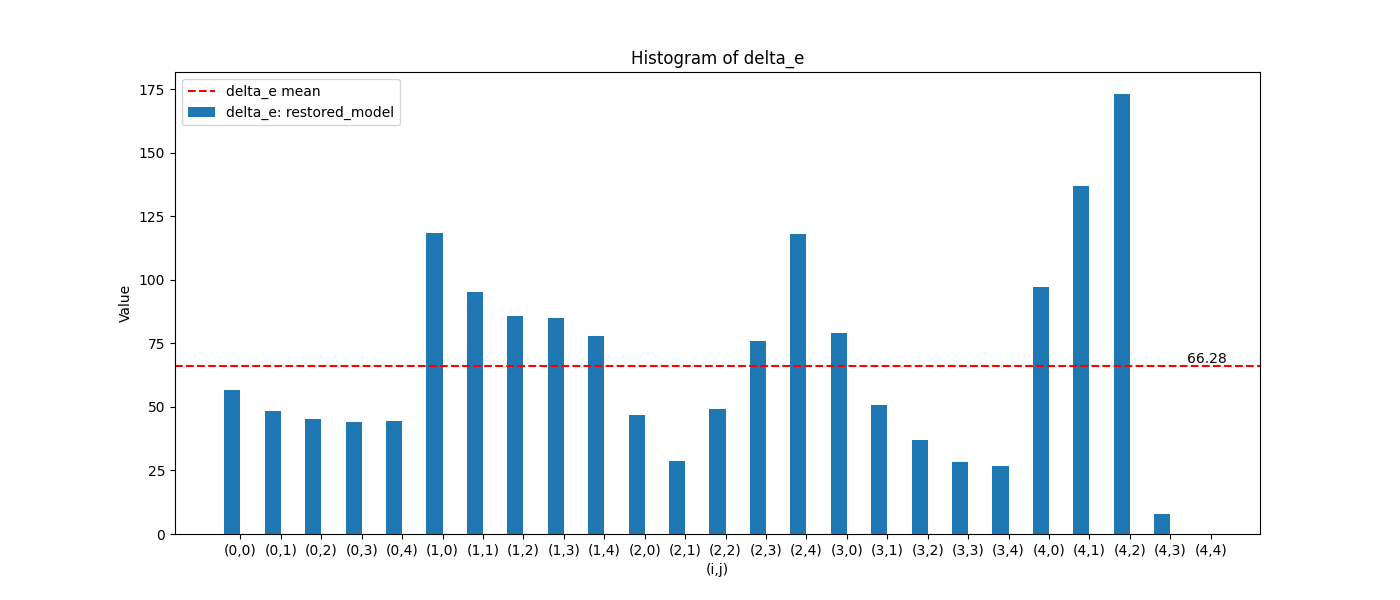
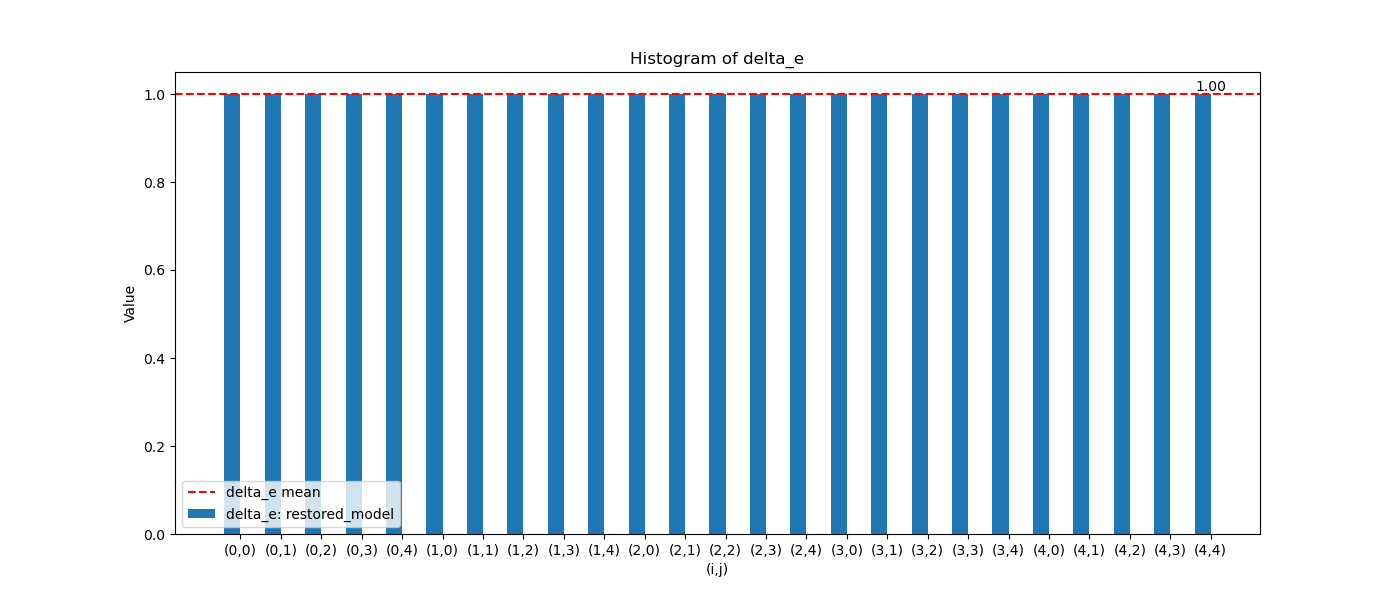
Feat: change analyze method to ciede2000

diff --git a/CC_IQA.py b/CC_IQA.py
@@ -89,24 +89,71 @@ def load_std_ref_LAB(c_type):
     else:
         assert True, "type error"
 
-def calculate_delta_e(color1, color2):
-    # 將 RGB 轉換為 Lab 色彩空間
-    lab_color1 = rgb_to_lab(color1)
-    lab_color2 = rgb_to_lab(color2)
-    
-    # 計算 Delta E
-    delta_e = distance.euclidean(lab_color1, lab_color2)
-    
-    return delta_e
+# 定義 delta_e_ciede2000 函數，用於計算 CIEDE-2000 色差
+def delta_e_ciede2000(Lab1, Lab2, kL=1, kC=1, kH=1):
+    L1, a1, b1 = Lab1
+    L2, a2, b2 = Lab2
 
-def rgb_to_lab(rgb_color):
-    # 將 RGB 色彩空間轉換為 XYZ 色彩空間
-    xyz_color = rgb_to_xyz(rgb_color)
-    
-    # 將 XYZ 色彩空間轉換為 Lab 色彩空間
-    lab_color = xyz_to_lab(xyz_color)
-    
-    return lab_color
+    def deg_to_rad(deg):
+        return np.radians(deg)
+
+    def rad_to_deg(rad):
+        return np.degrees(rad)
+
+    # 計算 CIEDE-2000 中的各個參數
+    L_bar = (L1 + L2) / 2
+    C1 = np.sqrt(a1**2 + b1**2)
+    C2 = np.sqrt(a2**2 + b2**2)
+    C_bar = (C1 + C2) / 2
+
+    G = 0.5 * (1 - np.sqrt(C_bar**7 / (C_bar**7 + 25**7)))
+
+    a1_prime = (1 + G) * a1
+    a2_prime = (1 + G) * a2
+
+    C1_prime = np.sqrt(a1_prime**2 + b1**2)
+    C2_prime = np.sqrt(a2_prime**2 + b2**2)
+
+    h1_prime = rad_to_deg(np.arctan2(b1, a1_prime))
+    if h1_prime < 0:
+        h1_prime += 360
+
+    h2_prime = rad_to_deg(np.arctan2(b2, a2_prime))
+    if h2_prime < 0:
+        h2_prime += 360
+
+    Delta_L_prime = L2 - L1
+    Delta_C_prime = C2_prime - C1_prime
+
+    h_diff = h2_prime - h1_prime
+    if abs(h_diff) <= 180:
+        Delta_H_prime = h2_prime - h1_prime
+    elif h_diff > 180:
+        Delta_H_prime = h2_prime - h1_prime - 360
+    else:
+        Delta_H_prime = h2_prime - h1_prime + 360
+
+    Delta_H_prime = 2 * np.sqrt(C1_prime * C2_prime) * np.sin(deg_to_rad(Delta_H_prime) / 2)
+
+    L_bar_prime = (L1 + L2) / 2
+    C_bar_prime = (C1_prime + C2_prime) / 2
+
+    h_bar_prime = (h1_prime + h2_prime) / 2
+    if abs(h1_prime - h2_prime) > 180:
+        h_bar_prime += 180
+
+    T = 1 - 0.17 * np.cos(deg_to_rad(h_bar_prime - 30)) + 0.24 * np.cos(deg_to_rad(2 * h_bar_prime))
+    S = 1 + 0.045 * C_bar_prime
+    R = 2 * np.sqrt(C_bar_prime**7 / (C_bar_prime**7 + 25**7))
+
+    Delta_L_term = Delta_L_prime / (kL * S)
+    Delta_C_term = Delta_C_prime / (kC * S)
+    Delta_H_term = Delta_H_prime / (kH * S)
+
+    Delta_E = np.sqrt(Delta_L_term**2 + Delta_C_term**2 + Delta_H_term**2 + R * Delta_C_term * Delta_H_term)
+
+    return Delta_E
+
 
 def rgb_to_xyz(rgb_color):
     # 將 RGB 轉換為 XYZ 色彩空間的矩陣
@@ -267,9 +314,9 @@ def cc_task(cc_img, scale=0.5):
         #[[r,g,b]*24個]
         
         center_rgb_clean.append(RGB_m_clean)
-        rgb_rgbc_cmp.append(calculate_delta_e(RGB_m, RGB_m_clean))
-        rgb_std_cmp.append(calculate_delta_e(RGB_m, rgb_list[count]))
-        rgbc_std_cmp.append(calculate_delta_e(RGB_m_clean, rgb_list[count]))
+        rgb_rgbc_cmp.append(delta_e_ciede2000(RGB_m, RGB_m_clean))
+        rgb_std_cmp.append(delta_e_ciede2000(RGB_m, rgb_list[count]))
+        rgbc_std_cmp.append(delta_e_ciede2000(RGB_m_clean, rgb_list[count]))
         # LAB_m: 中心點 LAB 值
         LAB_m = rgb2lab(RGB_m)
         #print(f"count: {count}")

diff --git a/CC_ui.py b/CC_ui.py
@@ -188,11 +188,11 @@ class Ui_MainWindow(object):
 
     def retranslateUi(self, MainWindow):
         _translate = QtCore.QCoreApplication.translate
-        MainWindow.setWindowTitle(_translate("MainWindow", "Color Chart Difference by UAC"))
-        self.label_1.setFont(QtGui.QFont("Roman times", 12, QtGui.QFont.Bold))
+        MainWindow.setWindowTitle(_translate("MainWindow", "Color Chart Difference Calculator"))
+        self.label_1.setFont(QtGui.QFont("Roman times", 9, QtGui.QFont.Bold))
         self.label_1.setText(_translate("MainWindow", "step1: Choose image; "
                                                     "Select the color chart area by clicking four points on the image."))
-        self.label_2.setFont(QtGui.QFont("Roman times", 12, QtGui.QFont.Bold))
+        self.label_2.setFont(QtGui.QFont("Roman times", 9, QtGui.QFont.Bold))
         self.label_2.setText(_translate("MainWindow", "step2: Crop the color chart area (rotate the image if "
                                                     "necessary to \nmatch the standard color chart)."))
         self.PB_4points.setText(_translate("MainWindow", "confirm"))
@@ -202,12 +202,12 @@ class Ui_MainWindow(object):
         self.PB_ok.setText(_translate("MainWindow", "ok"))
         self.PB_ok_2.setText(_translate("MainWindow", "Calculate and return points"))
         self.label_E.setText(_translate("MainWindow", "mean E: "))
-        self.label_3.setFont(QtGui.QFont("Roman times", 12, QtGui.QFont.Bold))
+        self.label_3.setFont(QtGui.QFont("Roman times", 9, QtGui.QFont.Bold))
         self.label_3.setText(_translate("MainWindow", "step3: Calculate the difference "
                                                     "(adjust the block scale if necessary)."))
         self.label_C.setText(_translate("MainWindow", "mean C: "))
         self.label_scale.setText(_translate("MainWindow", "block scale"))
-        self.label_std.setFont(QtGui.QFont("Roman times", 12, QtGui.QFont.Bold))
+        self.label_std.setFont(QtGui.QFont("Roman times", 9, QtGui.QFont.Bold))
         self.label_std.setText(_translate("MainWindow", "standard color chart"))
         try:
             cpath = os.path.abspath(__file__)
